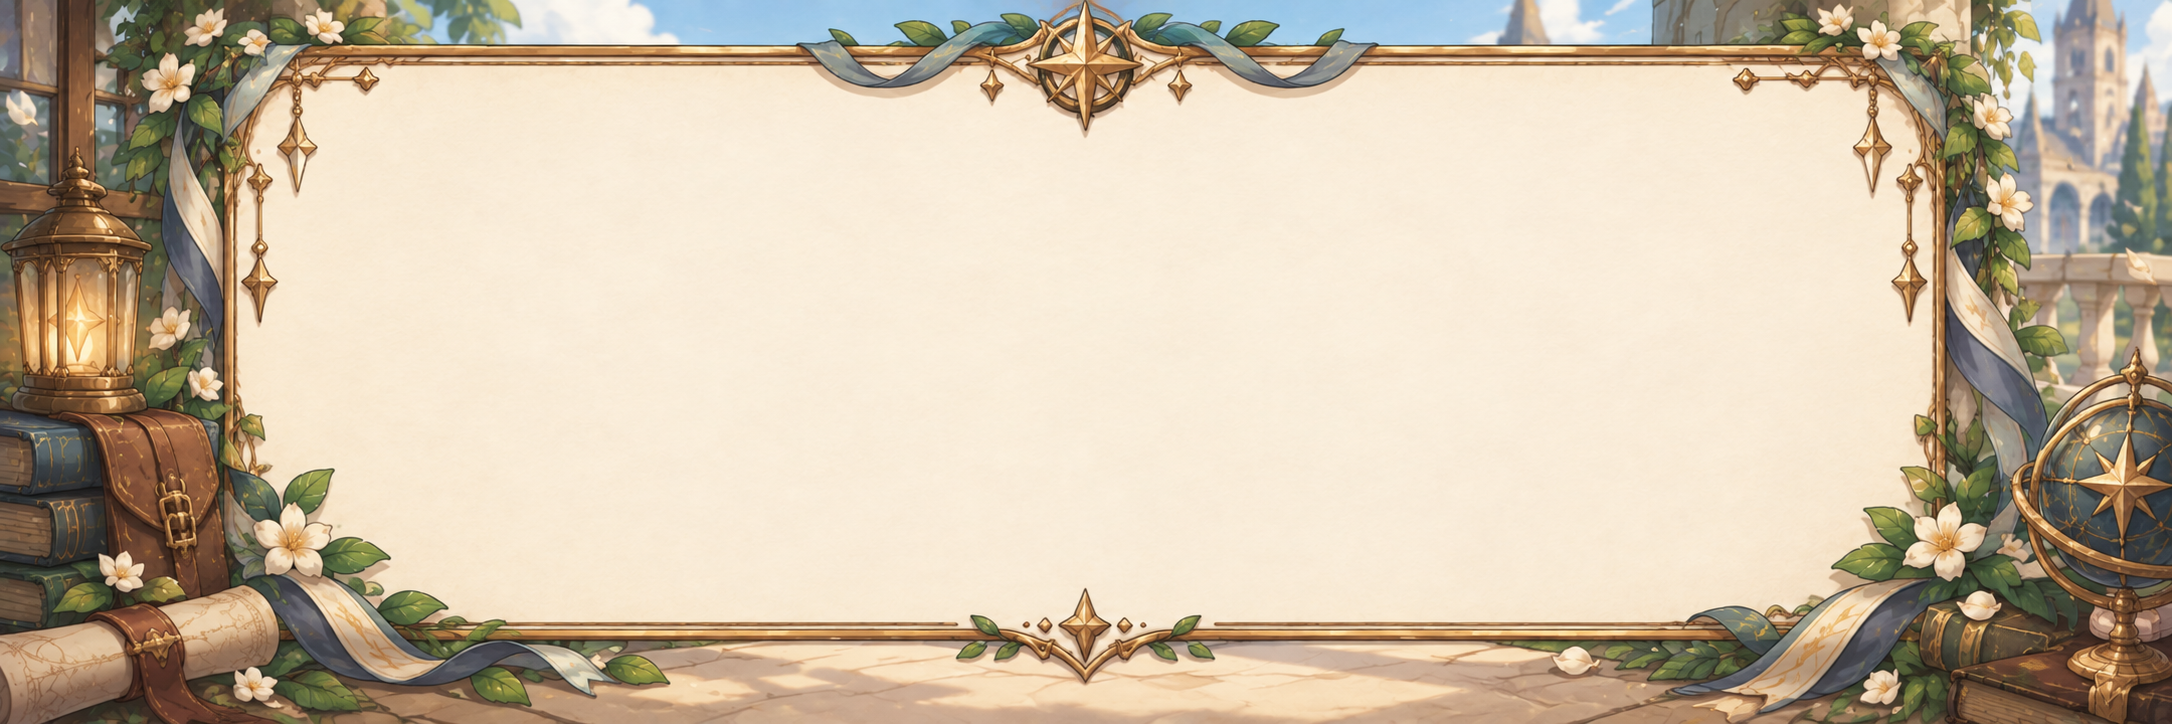
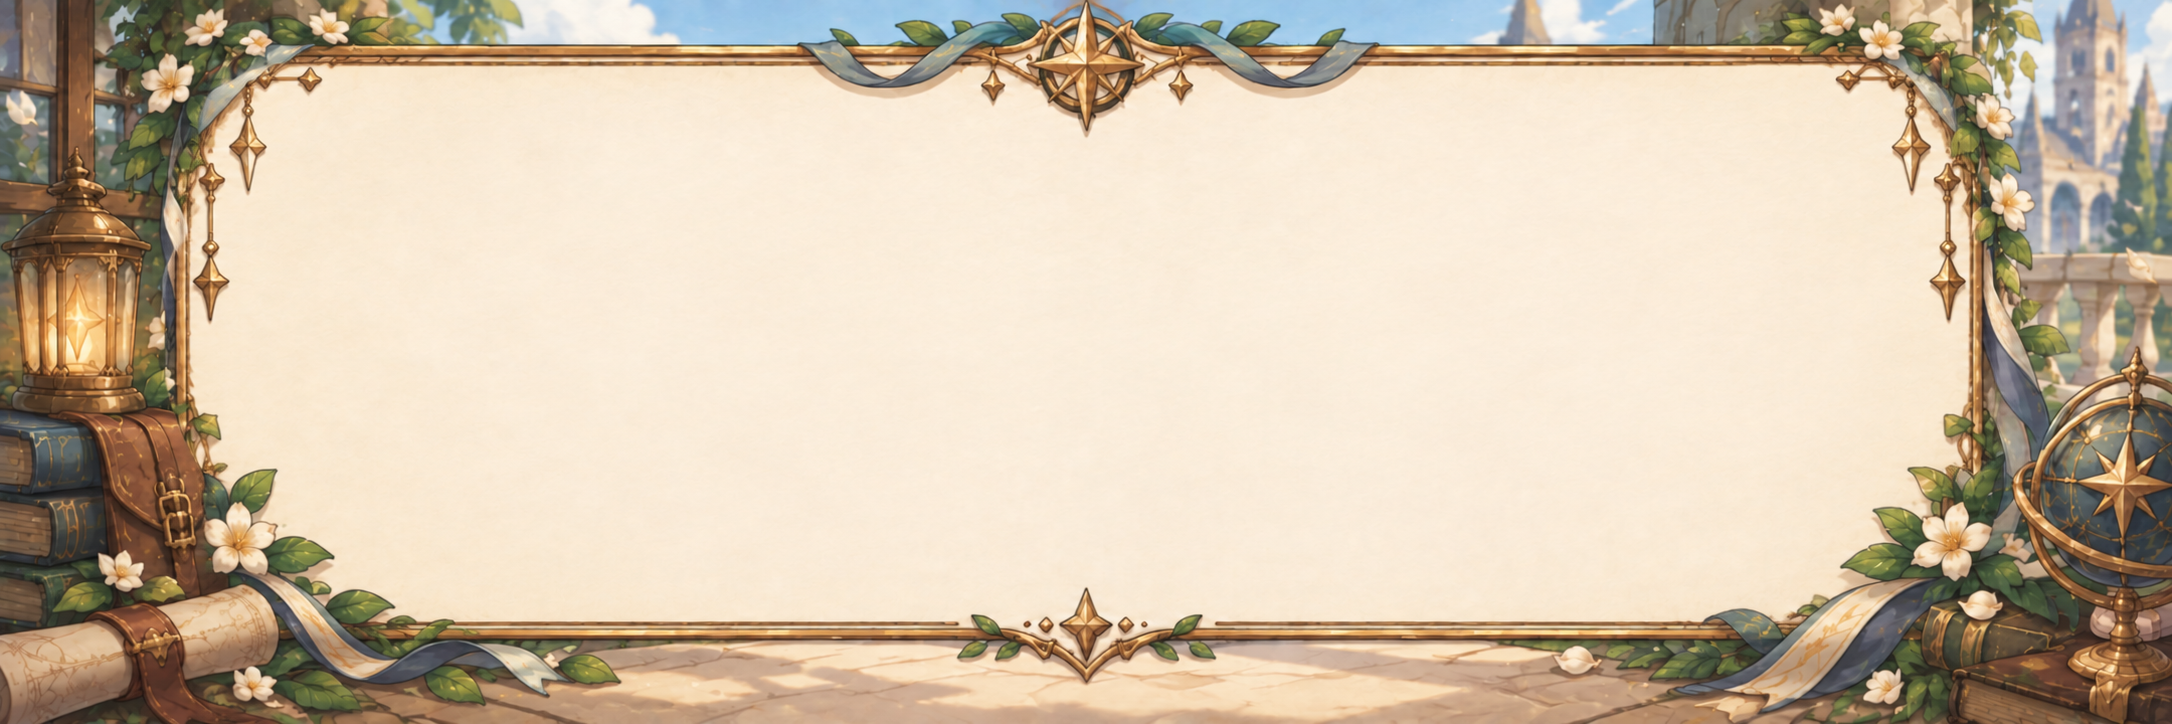
NPC dialogue background update

Changed region(s): [[0.0, 0.0, 1.0, 1.0]]

diff --git a/Lumenfall/Assets/_Project/Systems/DataDriven/DialogueOverlay.cs b/Lumenfall/Assets/_Project/Systems/DataDriven/DialogueOverlay.cs
@@ -201,6 +201,10 @@ namespace Lumenfall.DataDriven
             if (string.Equals(speaker, "Cinna Cirra", StringComparison.OrdinalIgnoreCase)) return Resources.Load<Texture2D>("Dialogue/CinnaCirra");
             if (string.Equals(speaker, "Orio", StringComparison.OrdinalIgnoreCase)) return Resources.Load<Texture2D>("Dialogue/Orio");
             if (string.Equals(speaker, "Katrina", StringComparison.OrdinalIgnoreCase)) return Resources.Load<Texture2D>("Dialogue/Katrina");
+            if (string.Equals(speaker, "Student", StringComparison.OrdinalIgnoreCase) ||
+                string.Equals(speaker, "Campus student", StringComparison.OrdinalIgnoreCase) ||
+                string.Equals(speaker, "Forest student", StringComparison.OrdinalIgnoreCase))
+                return Resources.Load<Texture2D>("Dialogue/Random NPC");
             return null;
         }
 
